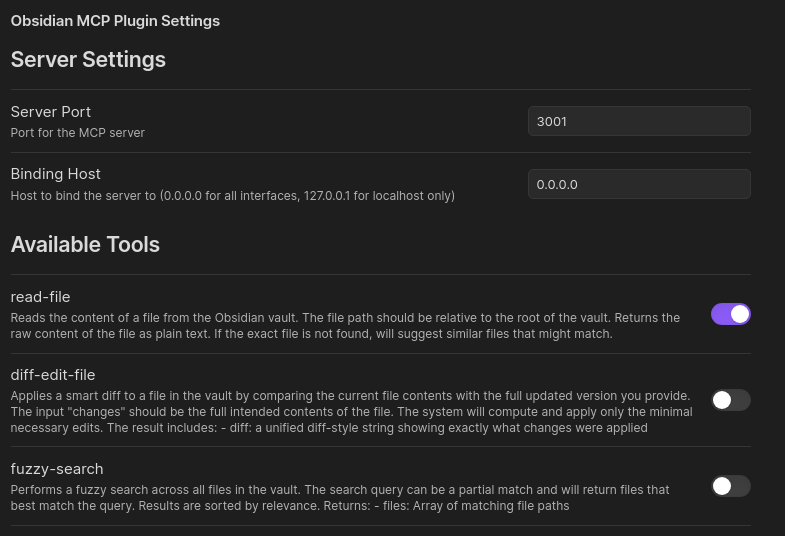
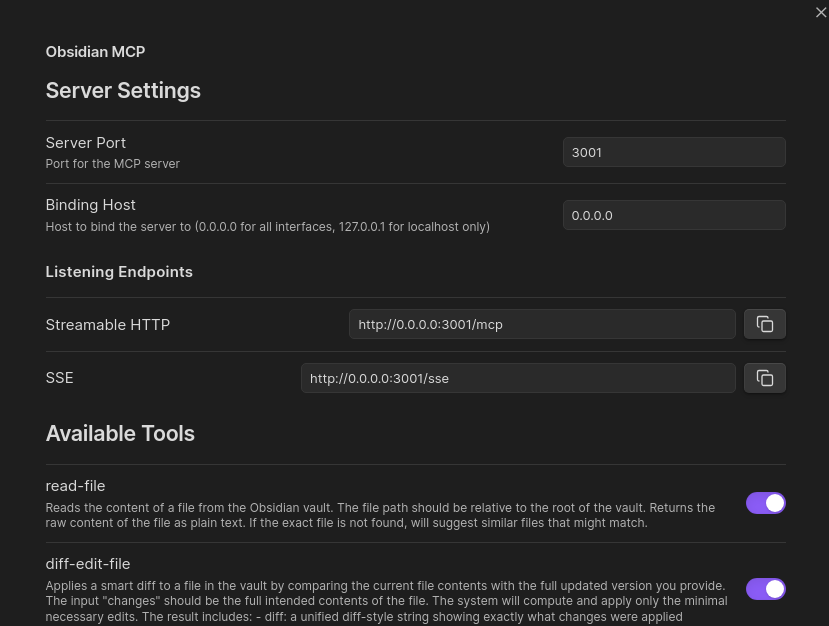
updated user information

diff --git a/src/settingsTab.ts b/src/settingsTab.ts
@@ -29,7 +29,7 @@ export class ObsidianMcpSettingTab extends PluginSettingTab {
     const { containerEl } = this;
     containerEl.empty();
 
-    containerEl.createEl("h2", { text: "Obsidian MCP Plugin Settings" });
+    containerEl.createEl("h2", { text: "Obsidian MCP" });
 
     // Server Settings
     this.displayServerSettings(containerEl);

diff --git a/README.md b/README.md
@@ -2,6 +2,8 @@
 
 <div align="center">
 
+## UNDER ACTIVE DEVELOPMENT
+
 [![Test](https://github.com/jlevere/obsidian-mcp-plugin/actions/workflows/test.yml/badge.svg)](https://github.com/jlevere/obsidian-mcp-plugin/actions/workflows/test.yml)
 [![GitHub release](https://img.shields.io/github/v/release/jlevere/obsidian-mcp-plugin)](https://github.com/jlevere/obsidian-mcp-plugin/releases)
 [![Downloads](https://img.shields.io/github/downloads/jlevere/obsidian-mcp-plugin/total)](https://github.com/jlevere/obsidian-mcp-plugin/releases)
@@ -61,16 +63,18 @@ The plugin currently only supports Server-Sent Events (SSE) and StreamHTTP conne
 
 Here is an example claude_desktop_config.json to use Cloudflare's local proxy.
 
-```
+```json
 {
   "mcpServers": {
     "obsidian": {
       "command": "npx",
-      "args": ["mcp-remote", "http://localhost:<your_server_ip>/sse"]
+      "args": ["mcp-remote", "http://localhost:<your_server_port>/sse"]
     }
   }
 }
 ```
+
+You can find the correct url from the plugin's setting pannel under endpoints.
 
 ### Available Tools
 
